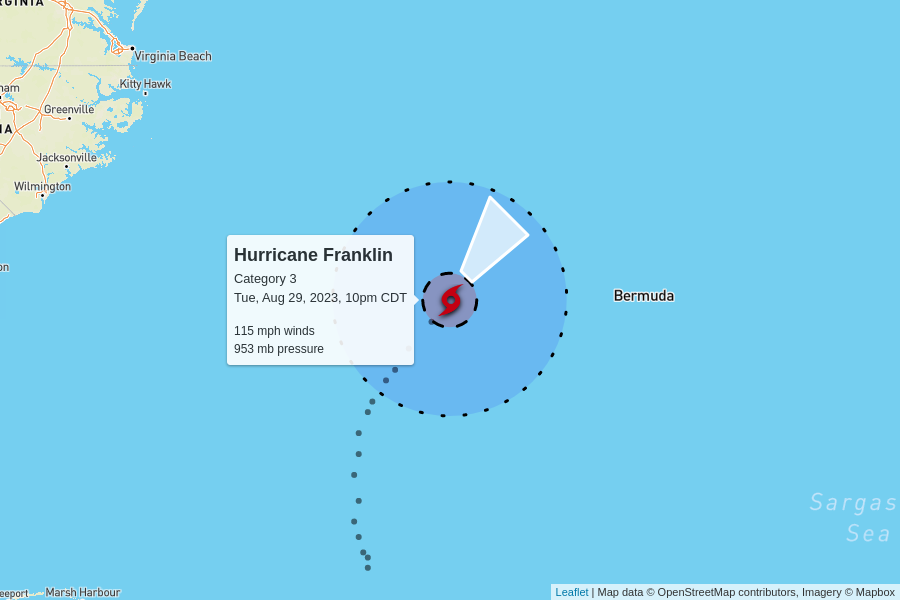
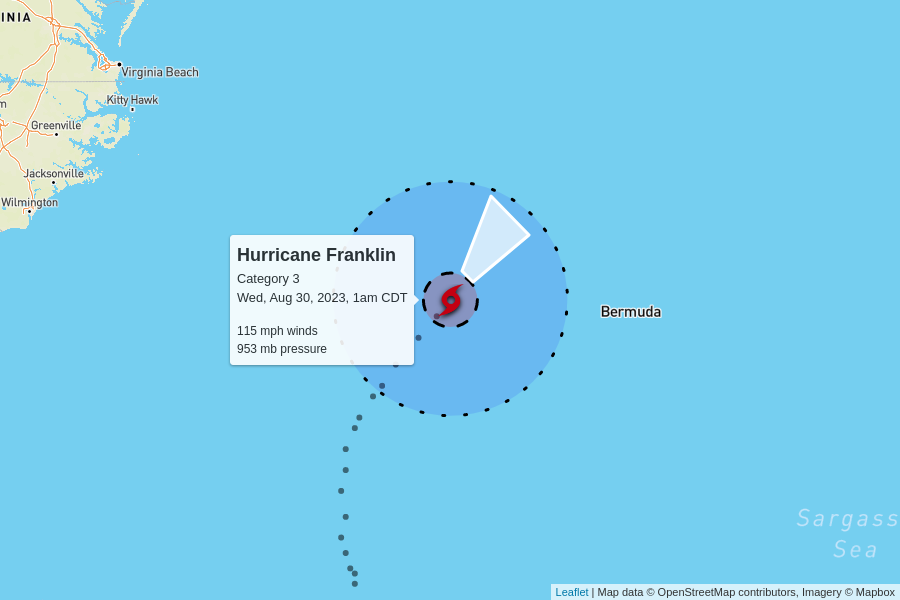
automatic update

diff --git a/docs/index.html b/docs/index.html
@@ -97,54 +97,10 @@
 
     <table>
       <tr>
-        <td colspan="6" class="storm category-2" >
-          <h2>
-            Hurricane Idalia - Category 2
-            <p class="updated">last updated <span data-time>2023-08-30T05:00:00.000Z</span></p>
-          </h2>
-        </td>
-      </tr>
-      
-      <tr>
-        <th class="spacer"></th>
-        <th>wind speed</th>
-        <th>central pressure</th>
-        <th>movement</th>
-        <th>data (CSV)</th>
-        <th>National Hurricane Center</th>
-      </tr>
-      <tr>
-        <td class="spacer"></td>
-        <td>110 mph</td>
-        <td>958 mb</td>
-        <td>
-          16 mph to the north
-          <br/>
-          <span style="display: inline-block; font-size: 1.5em; transform: rotate(360deg);">↑</span>
-        </td>
-        <td><a href="https://raw.githubusercontent.com/mgwalker/atlantic-hurricanes/main/data/csv/AL102023.csv">AL102023.csv</a></td>
-        <td><a href="https://www.nhc.noaa.gov/archive/2023/IDALIA.shtml?">NHC advisories</a></td>
-      </tr>
-      <tr id="storm_AL102023" >
-        <td class="spacer">
-        <td colspan="5">
-          <figure>
-            <img src="AL102023.png">
-            <figcaption>
-              Map data &copy; <a href="https://www.openstreetmap.org/copyright">OpenStreetMap</a> contributors,
-              Imagery &copy; <a href="https://www.mapbox.com/">Mapbox</a> |
-              <a href="https://www.mapbox.com/map-feedback/" target="_blank">Improve this map</a>
-            </figcaption>
-          </figure>
-        </td>
-      </tr>
-      
-
-      <tr>
         <td colspan="6" class="storm category-3" >
           <h2>
             Hurricane Franklin - Category 3
-            <p class="updated">last updated <span data-time>2023-08-30T03:00:00.000Z</span></p>
+            <p class="updated">last updated <span data-time>2023-08-30T06:00:00.000Z</span></p>
           </h2>
         </td>
       </tr>
@@ -174,6 +130,50 @@
         <td colspan="5">
           <figure>
             <img src="AL082023.png">
+            <figcaption>
+              Map data &copy; <a href="https://www.openstreetmap.org/copyright">OpenStreetMap</a> contributors,
+              Imagery &copy; <a href="https://www.mapbox.com/">Mapbox</a> |
+              <a href="https://www.mapbox.com/map-feedback/" target="_blank">Improve this map</a>
+            </figcaption>
+          </figure>
+        </td>
+      </tr>
+      
+
+      <tr>
+        <td colspan="6" class="storm category-3" >
+          <h2>
+            Hurricane Idalia - Category 3
+            <p class="updated">last updated <span data-time>2023-08-30T06:00:00.000Z</span></p>
+          </h2>
+        </td>
+      </tr>
+      
+      <tr>
+        <th class="spacer"></th>
+        <th>wind speed</th>
+        <th>central pressure</th>
+        <th>movement</th>
+        <th>data (CSV)</th>
+        <th>National Hurricane Center</th>
+      </tr>
+      <tr>
+        <td class="spacer"></td>
+        <td>120 mph</td>
+        <td>945 mb</td>
+        <td>
+          15 mph to the north
+          <br/>
+          <span style="display: inline-block; font-size: 1.5em; transform: rotate(10deg);">↑</span>
+        </td>
+        <td><a href="https://raw.githubusercontent.com/mgwalker/atlantic-hurricanes/main/data/csv/AL102023.csv">AL102023.csv</a></td>
+        <td><a href="https://www.nhc.noaa.gov/archive/2023/IDALIA.shtml?">NHC advisories</a></td>
+      </tr>
+      <tr id="storm_AL102023" >
+        <td class="spacer">
+        <td colspan="5">
+          <figure>
+            <img src="AL102023.png">
             <figcaption>
               Map data &copy; <a href="https://www.openstreetmap.org/copyright">OpenStreetMap</a> contributors,
               Imagery &copy; <a href="https://www.mapbox.com/">Mapbox</a> |
